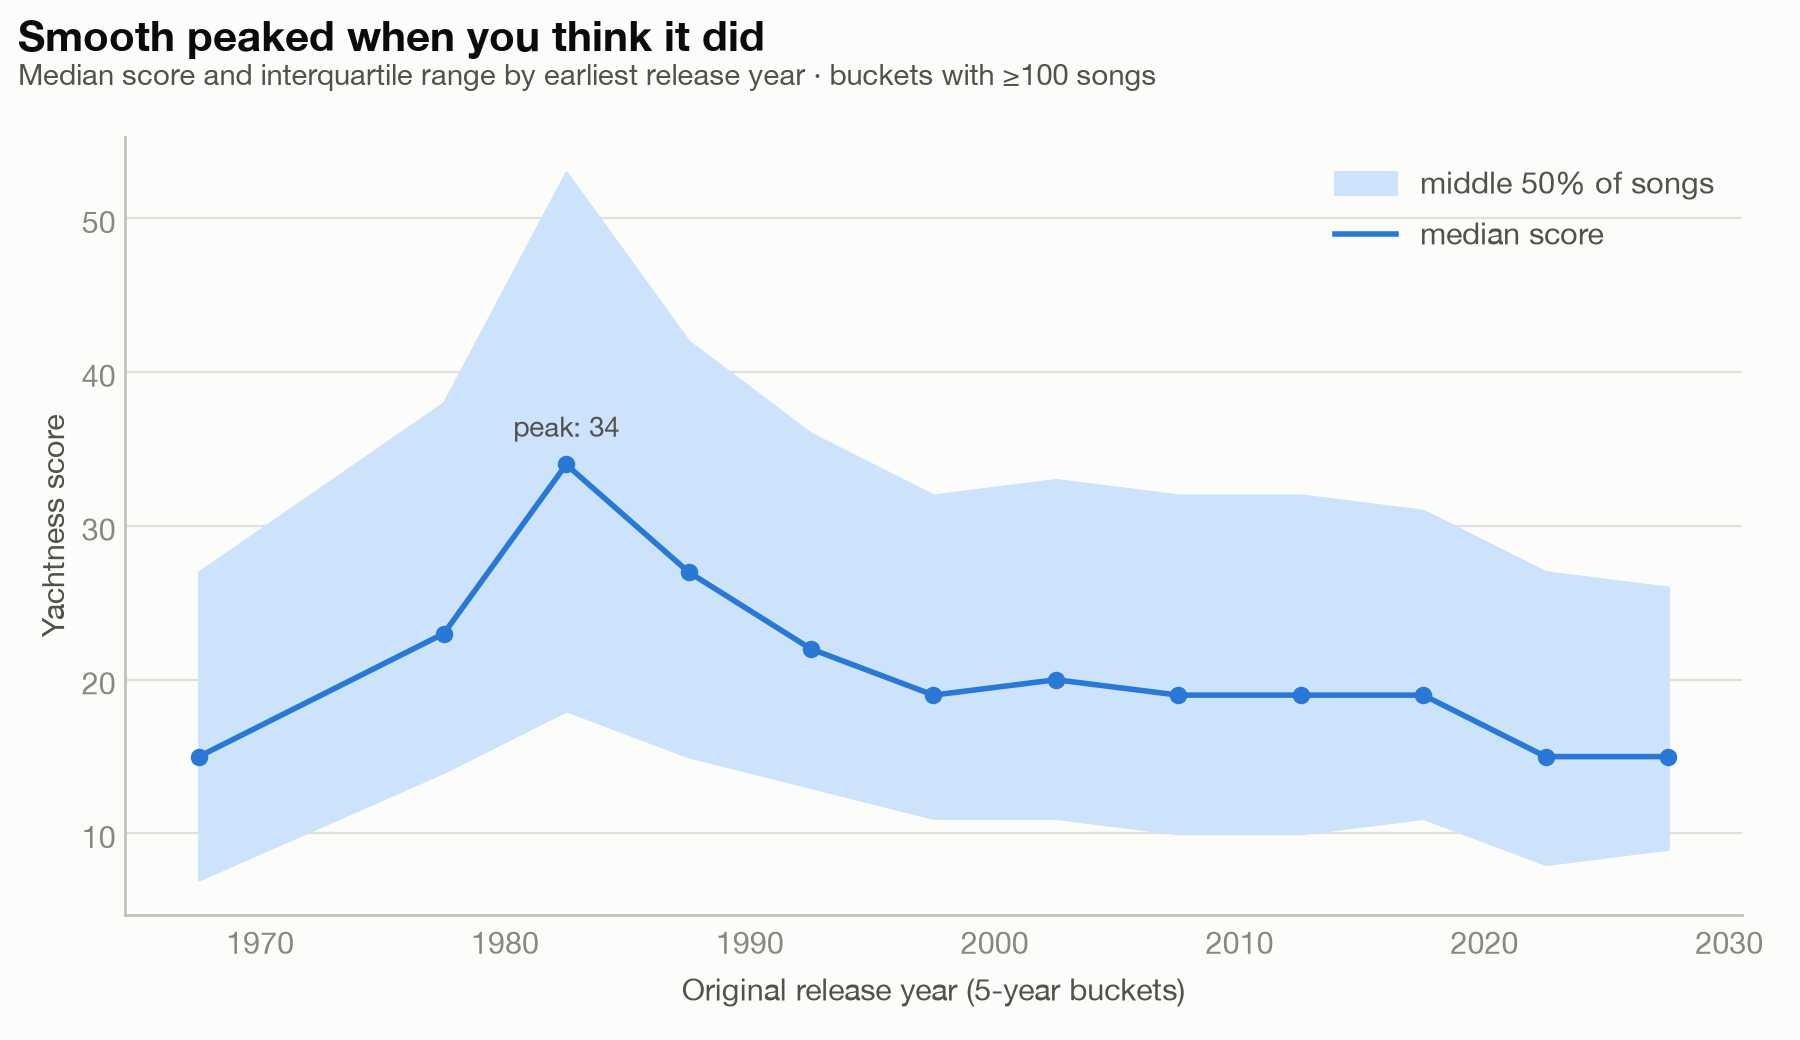
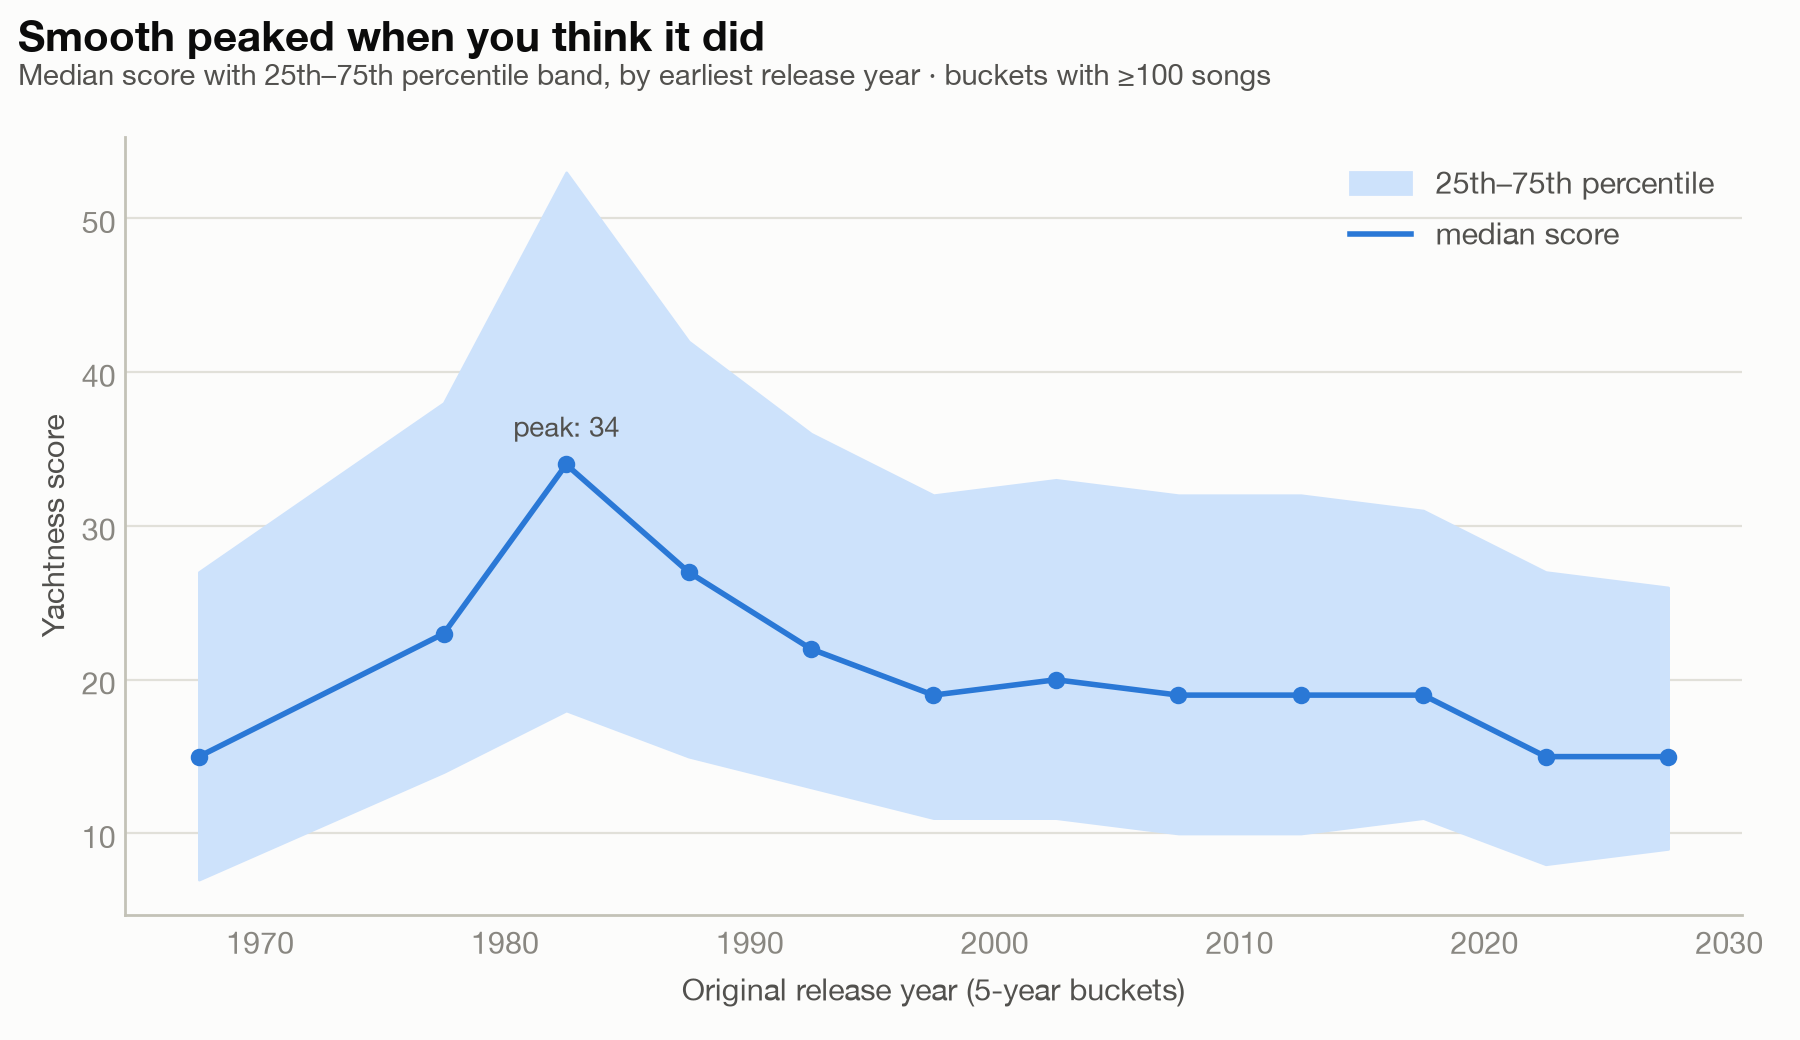
Refine Brazilian Yacht Rock post to final corrected analysis
Spell out the dedup and dating methodology (normalized artist+title,
oldest release year, reissue caveat), note the understated early-80s
peak, add the Tipo Bailarina / Cassiano mix-up, switch captions to
percentile terminology, and refresh the two plots whose labels changed.

diff --git a/blog-brazilian-yacht-rock.html b/blog-brazilian-yacht-rock.html
@@ -47,12 +47,13 @@
   <article class="post">
     <a class="back" href="blog.html">← All posts</a>
     <h1 class="post-title">The Brazilian Yacht Rock Leaderboard</h1>
-    <p class="post-meta">Published <time datetime="2026-07-22T22:58:00-04:00">July 22, 2026</time> · Updated <time datetime="2026-07-24T19:50:00-04:00">July 24, 2026</time> · by Felipe Maia Polo</p>
+    <p class="post-meta">Published <time datetime="2026-07-22T22:58:00-04:00">July 22, 2026</time> · Updated <time datetime="2026-07-25T00:45:00-04:00">July 25, 2026</time> · by Felipe Maia Polo</p>
 
     <p class="lead">Brazil spent the late '70s and '80s perfecting its own kind of smooth. Boogie, MPB, and jazz-funk records built on the same Rhodes pianos, session players, and immaculate production the yacht rock canon is made of. As a Brazilian who <a href="blog-yachtness-score.html">built a yacht rock detector</a>, I had to know: how yachty is Brazilian music, really? So I scored 14,079 songs to find out.</p>
 
     <h2>The experiment</h2>
-    <p>I started by asking a large language model a simple question: which 100 Brazilian artists were most likely to have made something that sounds like yacht rock? Then, instead of trusting anyone's picks about individual songs, I pulled everything those artists have on Deezer. Full catalogues, deep cuts, live albums, remixes, everything. That came to 21,418 recordings, which collapse to 14,079 distinct songs once you account for the same song appearing on multiple releases. Each song keeps its best-scoring recording, and its year is the earliest release I could find, so a 1984 song reissued in 2014 counts as 1984.</p>
+    <p>I started by asking a large language model a simple question: which 100 Brazilian artists were most likely to have made something that sounds like yacht rock? Then, instead of trusting anyone's picks about individual songs, I pulled everything those artists have on Deezer. Full catalogues, deep cuts, live albums, remixes, everything. That came to 21,418 scored recordings, with only 13 tracks skipped for having no preview. The recordings collapse to 14,079 distinct songs by matching on normalized artist and title, ignoring case and punctuation and stripping bracketed suffixes like "(Remastered)" or "(Ao Vivo)". Each song keeps its highest-scoring recording, and its year is the oldest release year seen across every copy of it in the pool, so a 1984 song reissued in 2014 counts as 1984.</p>
+    <p>One honest blind spot in that dating rule: when the only copies of a song in the pool are reissues, the song wears the reissue year. That can only push dates later, never earlier, which will matter when we get to the era analysis.</p>
     <p>Every preview then went through the exact same model that powers <a href="https://yachtness.org">Yachtness Score</a>. No special treatment for being Brazilian. The top 50 now live on the site's <a href="https://yachtness.org/leaderboard">leaderboard</a>, and the top 100 are in a Spotify playlist at the end of this post.</p>
     <p>The division of labor matters here: the language model only chose whose catalogues to search. Every judgment about every individual song came from the audio model listening to it.</p>
 
@@ -64,7 +65,8 @@
     <h2>Djavan won, and it is not close</h2>
     <p>The new champion is "Transe" at 91, from Djavan's 1984 album <em>Lilás</em>. To put that number in context, 91 does not just win the Brazilian board. It puts "Transe" on the site's global top-50 list, sandwiched between David Roberts and Toto, surrounded by the American canon the model was trained to recognize. A Brazilian song sits comfortably among the yachtiest recordings the model has ever heard.</p>
     <p>And Djavan does not stop there. He has seven of the top 20: "Transe," "Miragem" (88), "Topázio," "Lei," "Liberdade," "Infinito," and "Iris," almost all from his 1984 to 1986 run. <em>Lilás</em> itself averages 77.6 across its nine tracks, the highest album mean in the entire pool, which makes it a serious candidate for the yachtiest Brazilian album ever recorded. If Brazil has a Michael McDonald, the data keeps insisting it is Djavan.</p>
-    <p>The rest of the top 20 has its own surprises. Luiz Melodia, an artist better known for raw soulful MPB, lands third with "Destino Coração" (87), a 2006 recording. Sandra De Sá's "Filho" (86) and Ivan Lins's "Sonhos (Arrastão Dos Pescadores)" (85) hold up the 1980s end, while Azymuth shows up with a song from 2023. Smooth did not end with the decade.</p>
+    <p>The rest of the top 20 has its own surprises. Luiz Melodia, an artist better known for raw soulful MPB, lands third with "Destino Coração" (87). It shows 2006 on the board, which is exactly the reissue artifact I flagged above: only later copies of it exist in the pool, so it wears a later year. Sandra De Sá's "Filho" (86) and Ivan Lins's "Sonhos (Arrastão Dos Pescadores)" (85) hold up the 1980s end, while Azymuth shows up with a song from 2023. Smooth did not end with the decade.</p>
+    <p>And then there is the strangest guest on the boat: "Tipo Bailarina" by Same Mc (82), from 2024. It only entered the pool because it features a singer named Cassiano, who got confounded with the Brazilian soul legend Cassiano when the artist catalogues were assembled. A case of mistaken identity all the way down. It also does not matter to the scoreboard: the model never knew who was singing, it just heard the recording and called it smooth. Boarding by accident is still boarding.</p>
 
     <figure>
       <img src="images/blog/4_top20_songs.png" alt="Bar chart of the 20 yachtiest Brazilian songs, led by Djavan's 'Transe' at 91 and 'Miragem' at 88.">
@@ -82,11 +84,12 @@
 
     <h2>Smooth peaked exactly when you think it did</h2>
     <p>The model never sees a release date. It only hears audio. And yet, when you group songs by year, it independently rediscovers the golden age: scores climb through the late '70s, peak in the 1980 to 1984 bucket at a median of 34, nearly double the all-time median, and slide back down through the '90s. The window when Brazilian studios went all in on boogie and polished MPB production is exactly the window the model finds smoothest.</p>
+    <p>Remember the reissue caveat from the methodology: mis-dated songs can only leave the early '80s, never sneak into them. So if anything, the real peak is taller than the chart shows.</p>
     <p>Two smaller things I checked along the way. First, the median never returns to its '80s peak, but it also never collapses; from the 2000s on it sits around 19, kept afloat by revivalists like Ed Motta and by veterans who never stopped recording that way. Second, song length has nothing to do with it: the correlation between duration and score is 0.03, which is to say zero. Smoothness is not length.</p>
 
     <figure>
       <img src="images/blog/2_score_by_year.png" alt="Median yachtness score by release year with interquartile band, rising to a peak of 34 in the early 1980s and declining after.">
-      <figcaption>Median score by earliest release year. The model finds the boogie era on its own.</figcaption>
+      <figcaption>Median score with the 25th to 75th percentile band, by earliest release year. The model finds the boogie era on its own.</figcaption>
     </figure>
 
     <h2>The consistency crown goes somewhere unexpected</h2>
@@ -96,7 +99,7 @@
 
     <figure>
       <img src="images/blog/3_artist_league.png" alt="Artist league table showing median score and interquartile range for artists with at least 40 songs, led by Trio Caiowás at 44.">
-      <figcaption>The artist league: dot is the median, bar is the middle 50% of each artist's songs.</figcaption>
+      <figcaption>The artist league: dot is the median, bar is the 25th to 75th percentile of each artist's songs.</figcaption>
     </figure>
 
     <h2>Who owns the top 100</h2>

diff --git a/blog.html b/blog.html
@@ -51,7 +51,7 @@
     <ul class="post-list">
       <li class="post-card">
         <h2><a href="blog-brazilian-yacht-rock.html">The Brazilian Yacht Rock Leaderboard</a></h2>
-        <div class="date">July 22, 2026 · updated July 24</div>
+        <div class="date">July 22, 2026 · updated July 25</div>
         <p class="teaser">An AI named 100 Brazilian artists, my model scored their entire catalogues: 14,079 songs. Djavan won, the '80s peaked on cue, and most of Brazil stayed on shore.</p>
       </li>
       <li class="post-card">
